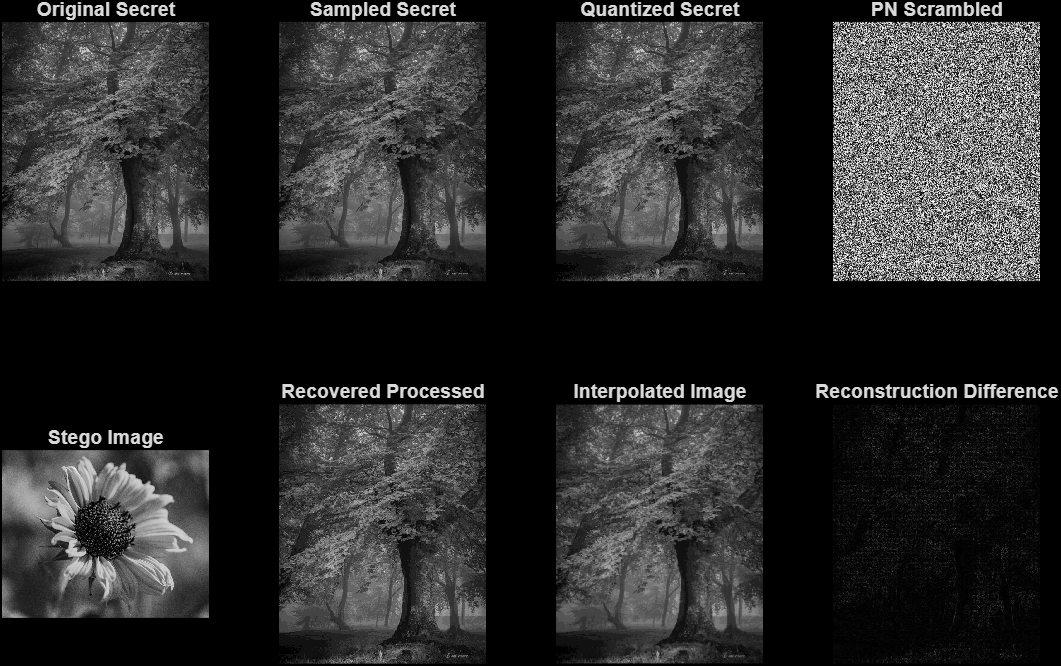
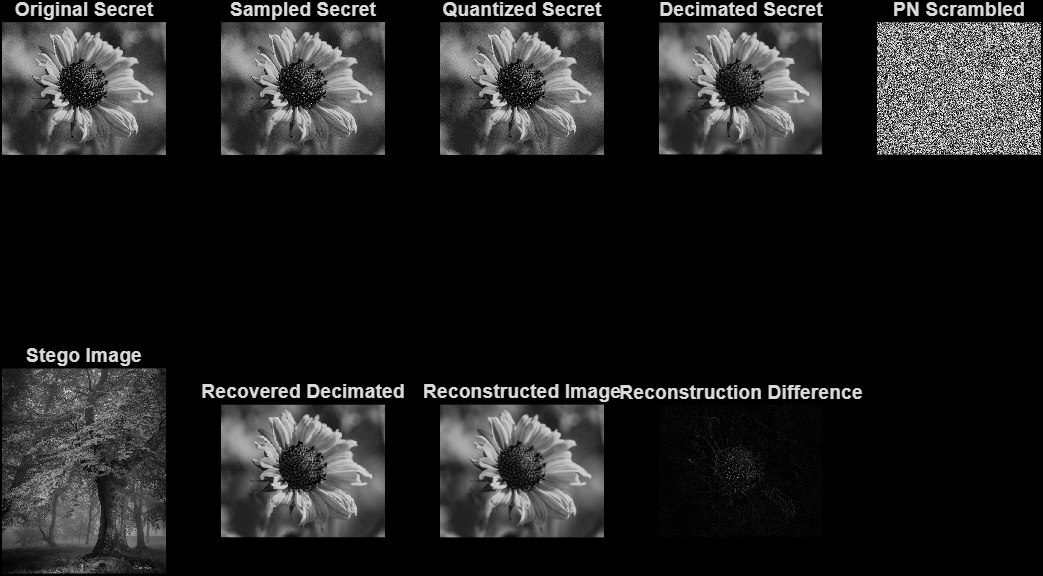
Add decimation and reconstruction to DSP pipeline

diff --git a/matlabcode.m b/matlabcode.m
@@ -2,9 +2,9 @@ clc;
 clear;
 close all;
 
-%% V5 - Interpolation and Reconstruction
-% Sampling + Quantization + PN Scrambling + LSB Steganography
-% + Extraction + PN Descrambling + Interpolation
+%% V6 - Decimation and Reconstruction
+% Sampling + Quantization + Decimation + PN Scrambling
+% + LSB Steganography + Extraction + Interpolation
 
 %% 1. Load Cover Image
 
@@ -59,7 +59,15 @@ quantStep = 255/(numberOfLevels-1);
 secretQuantized = uint8( ...
     round(double(secretSampled)/quantStep)*quantStep);
 
-%% 5. Check Cover Capacity
+%% 5. Decimation
+
+decimationFactor = 2;
+
+secretDecimated = secretQuantized( ...
+    1:decimationFactor:end, ...
+    1:decimationFactor:end);
+
+%% 6. Check Cover Capacity
 
 maxSecretPixels = floor((numel(cover)-32)/8);
 
@@ -67,29 +75,29 @@ if maxSecretPixels < 1
     error('Cover image is too small.');
 end
 
-if numel(secretQuantized) > maxSecretPixels
+if numel(secretDecimated) > maxSecretPixels
 
-    scale = sqrt(maxSecretPixels / numel(secretQuantized));
+    scale = sqrt(maxSecretPixels / numel(secretDecimated));
 
-    newRows = max(1,floor(size(secretQuantized,1)*scale));
-    newCols = max(1,floor(size(secretQuantized,2)*scale));
+    newRows = max(1,floor(size(secretDecimated,1)*scale));
+    newCols = max(1,floor(size(secretDecimated,2)*scale));
 
-    secretQuantized = imresize( ...
-        secretQuantized,[newRows newCols]);
+    secretDecimated = imresize( ...
+        secretDecimated,[newRows newCols]);
 
 end
 
-%% 6. PN Sequence Scrambling
+%% 7. PN Sequence Scrambling
 
 rng(10);
 
 pn = uint8( ...
-    randi([0 255],size(secretQuantized)));
+    randi([0 255],size(secretDecimated)));
 
 encrypted = bitxor( ...
-    secretQuantized,pn);
+    secretDecimated,pn);
 
-%% 7. Convert Encrypted Image to Bits
+%% 8. Convert Encrypted Image to Bits
 
 encryptedVector = encrypted(:);
 
@@ -111,10 +119,10 @@ for k = 1:length(encryptedVector)
 
 end
 
-%% 8. Create Image Dimension Header
+%% 9. Create Image Dimension Header
 
-rows = size(secretQuantized,1);
-cols = size(secretQuantized,2);
+rows = size(secretDecimated,1);
+cols = size(secretDecimated,2);
 
 header = [uint16(rows); uint16(cols)];
 
@@ -137,7 +145,7 @@ for k = 1:length(headerBytes)
 
 end
 
-%% 9. Combine Header and Secret Data
+%% 10. Combine Header and Secret Data
 
 dataBits = [headerBits; secretBits];
 
@@ -147,7 +155,7 @@ if numel(dataBits) > numel(cover)
 
 end
 
-%% 10. LSB Embedding
+%% 11. LSB Embedding
 
 stegoVector = cover(:);
 
@@ -161,7 +169,7 @@ end
 stego = reshape( ...
     stegoVector,size(cover));
 
-%% 11. LSB Extraction
+%% 12. LSB Extraction
 
 stegoVector = stego(:);
 
@@ -175,7 +183,7 @@ for k = 1:length(dataBits)
 
 end
 
-%% 12. Extract Header
+%% 13. Extract Header
 
 headerBitsReceived = ...
     extractedBits(1:32);
@@ -209,7 +217,7 @@ dimensions = typecast( ...
 rowsReceived = double(dimensions(1));
 colsReceived = double(dimensions(2));
 
-%% 13. Extract Encrypted Image
+%% 14. Extract Encrypted Image
 
 numberOfSecretBits = ...
     rowsReceived * colsReceived * 8;
@@ -217,7 +225,7 @@ numberOfSecretBits = ...
 encryptedBits = extractedBits( ...
     33:32+numberOfSecretBits);
 
-%% 14. Convert Bits Back to Bytes
+%% 15. Convert Bits Back to Bytes
 
 encryptedRecovered = ...
     zeros(rowsReceived*colsReceived,1,'uint8');
@@ -242,13 +250,13 @@ for k = 1:length(encryptedRecovered)
 
 end
 
-%% 15. Reconstruct Encrypted Image
+%% 16. Reconstruct Encrypted Image
 
 encryptedRecovered = reshape( ...
     encryptedRecovered, ...
     [rowsReceived colsReceived]);
 
-%% 16. PN Descrambling
+%% 17. PN Descrambling
 
 rng(10);
 
@@ -256,35 +264,35 @@ pnReceived = uint8( ...
     randi([0 255], ...
     [rowsReceived colsReceived]));
 
-recoveredProcessed = bitxor( ...
+recoveredDecimated = bitxor( ...
     encryptedRecovered,pnReceived);
 
-%% 17. Interpolation
+%% 18. Interpolation
 
 reconstructed = imresize( ...
-    recoveredProcessed, ...
+    recoveredDecimated, ...
     size(secretOriginal), ...
     'bilinear');
 
 reconstructed = uint8(reconstructed);
 
-%% 18. Recovery Quality Before Interpolation
+%% 19. Decimated Image Recovery Quality
 
-mseProcessed = mean( ...
-    (double(secretQuantized(:)) - ...
-     double(recoveredProcessed(:))).^2);
+mseDecimated = mean( ...
+    (double(secretDecimated(:)) - ...
+     double(recoveredDecimated(:))).^2);
 
-if mseProcessed == 0
-    psnrProcessed = Inf;
+if mseDecimated == 0
+    psnrDecimated = Inf;
 else
-    psnrProcessed = ...
-        10*log10(255^2/mseProcessed);
+    psnrDecimated = ...
+        10*log10(255^2/mseDecimated);
 end
 
-ssimProcessed = calculateSSIM( ...
-    secretQuantized,recoveredProcessed);
+ssimDecimated = calculateSSIM( ...
+    secretDecimated,recoveredDecimated);
 
-%% 19. Reconstruction Quality
+%% 20. Reconstruction Quality
 
 mseReconstructed = mean( ...
     (double(secretOriginal(:)) - ...
@@ -300,7 +308,7 @@ end
 ssimReconstructed = calculateSSIM( ...
     secretOriginal,reconstructed);
 
-%% 20. Stego Image Quality
+%% 21. Stego Image Quality
 
 mseStego = mean( ...
     (double(cover(:)) - ...
@@ -315,93 +323,94 @@ end
 
 ssimStego = calculateSSIM(cover,stego);
 
-%% 21. Difference Images
-
-processedDifference = uint8(abs( ...
-    double(secretQuantized) - ...
-    double(recoveredProcessed)));
+%% 22. Difference Images
 
 reconstructionDifference = uint8(abs( ...
     double(secretOriginal) - ...
     double(reconstructed)));
 
-stegoDifference = uint8(abs( ...
-    double(cover) - ...
-    double(stego)));
-
-%% 22. Display Results
+%% 23. Display Results
 
 figure('Name', ...
-    'DSP Secure Image Steganography - V5', ...
+    'DSP Secure Image Steganography - V6', ...
     'NumberTitle','off');
 
-subplot(2,4,1);
+subplot(2,5,1);
 imshow(secretOriginal);
 title('Original Secret');
 
-subplot(2,4,2);
+subplot(2,5,2);
 imshow(secretSampled);
 title('Sampled Secret');
 
-subplot(2,4,3);
+subplot(2,5,3);
 imshow(secretQuantized);
 title('Quantized Secret');
 
-subplot(2,4,4);
+subplot(2,5,4);
+imshow(secretDecimated);
+title('Decimated Secret');
+
+subplot(2,5,5);
 imshow(encrypted);
 title('PN Scrambled');
 
-subplot(2,4,5);
+subplot(2,5,6);
 imshow(stego);
 title('Stego Image');
 
-subplot(2,4,6);
-imshow(recoveredProcessed);
-title('Recovered Processed');
+subplot(2,5,7);
+imshow(recoveredDecimated);
+title('Recovered Decimated');
 
-subplot(2,4,7);
+subplot(2,5,8);
 imshow(reconstructed);
-title('Interpolated Image');
+title('Reconstructed Image');
 
-subplot(2,4,8);
+subplot(2,5,9);
 imshow(reconstructionDifference);
 title('Reconstruction Difference');
 
-%% 23. Display Results
+%% 24. Display Results
 
-fprintf('\nV5 INTERPOLATION RESULTS\n');
+fprintf('\nV6 DECIMATION RESULTS\n');
 
 fprintf('\nDSP PARAMETERS\n');
 
-fprintf('Sampling Factor : %d\n',samplingFactor);
-fprintf('Quantization    : %d levels\n',numberOfLevels);
-fprintf('Interpolation   : Bilinear\n');
+fprintf('Sampling Factor   : %d\n',samplingFactor);
+fprintf('Quantization      : %d levels\n',numberOfLevels);
+fprintf('Decimation Factor : %d\n',decimationFactor);
+fprintf('Interpolation     : Bilinear\n');
 
 fprintf('\nIMAGE SIZES\n');
 
-fprintf('Original Secret : %d x %d\n', ...
+fprintf('Original Secret   : %d x %d\n', ...
     size(secretOriginal,1), ...
     size(secretOriginal,2));
 
-fprintf('Sampled Secret  : %d x %d\n', ...
+fprintf('Sampled Secret    : %d x %d\n', ...
     size(secretSampled,1), ...
     size(secretSampled,2));
 
-fprintf('Processed Image : %d x %d\n', ...
+fprintf('Quantized Secret  : %d x %d\n', ...
     size(secretQuantized,1), ...
     size(secretQuantized,2));
 
-fprintf('Reconstructed   : %d x %d\n', ...
+fprintf('Decimated Secret  : %d x %d\n', ...
+    size(secretDecimated,1), ...
+    size(secretDecimated,2));
+
+fprintf('Reconstructed     : %d x %d\n', ...
     size(reconstructed,1), ...
     size(reconstructed,2));
 
-fprintf('\nPROCESSED IMAGE RECOVERY\n');
+fprintf('\nDECIMATED IMAGE RECOVERY\n');
 
-fprintf('MSE  : %.10f\n',mseProcessed);
-fprintf('PSNR : %.2f dB\n',psnrProcessed);
-fprintf('SSIM : %.6f\n',ssimProcessed);
+fprintf('MSE  : %.10f\n',mseDecimated);
+fprintf('PSNR : %.2f dB\n',psnrDecimated);
+fprintf('SSIM : %.6f\n',ssimDecimated);
 
-fprintf('\nINTERPOLATED IMAGE QUALITY\n');
+fprintf('\nRECONSTRUCTED IMAGE QUALITY\n');
 
 fprintf('MSE  : %.10f\n',mseReconstructed);
 fprintf('PSNR : %.2f dB\n',psnrReconstructed);
@@ -413,7 +422,7 @@ fprintf('MSE  : %.10f\n',mseStego);
 fprintf('PSNR : %.2f dB\n',psnrStego);
 fprintf('SSIM : %.6f\n',ssimStego);
 
-%% 24. SSIM Function
+%% 25. SSIM Function
 
 function ssimValue = calculateSSIM(A,B)
 
